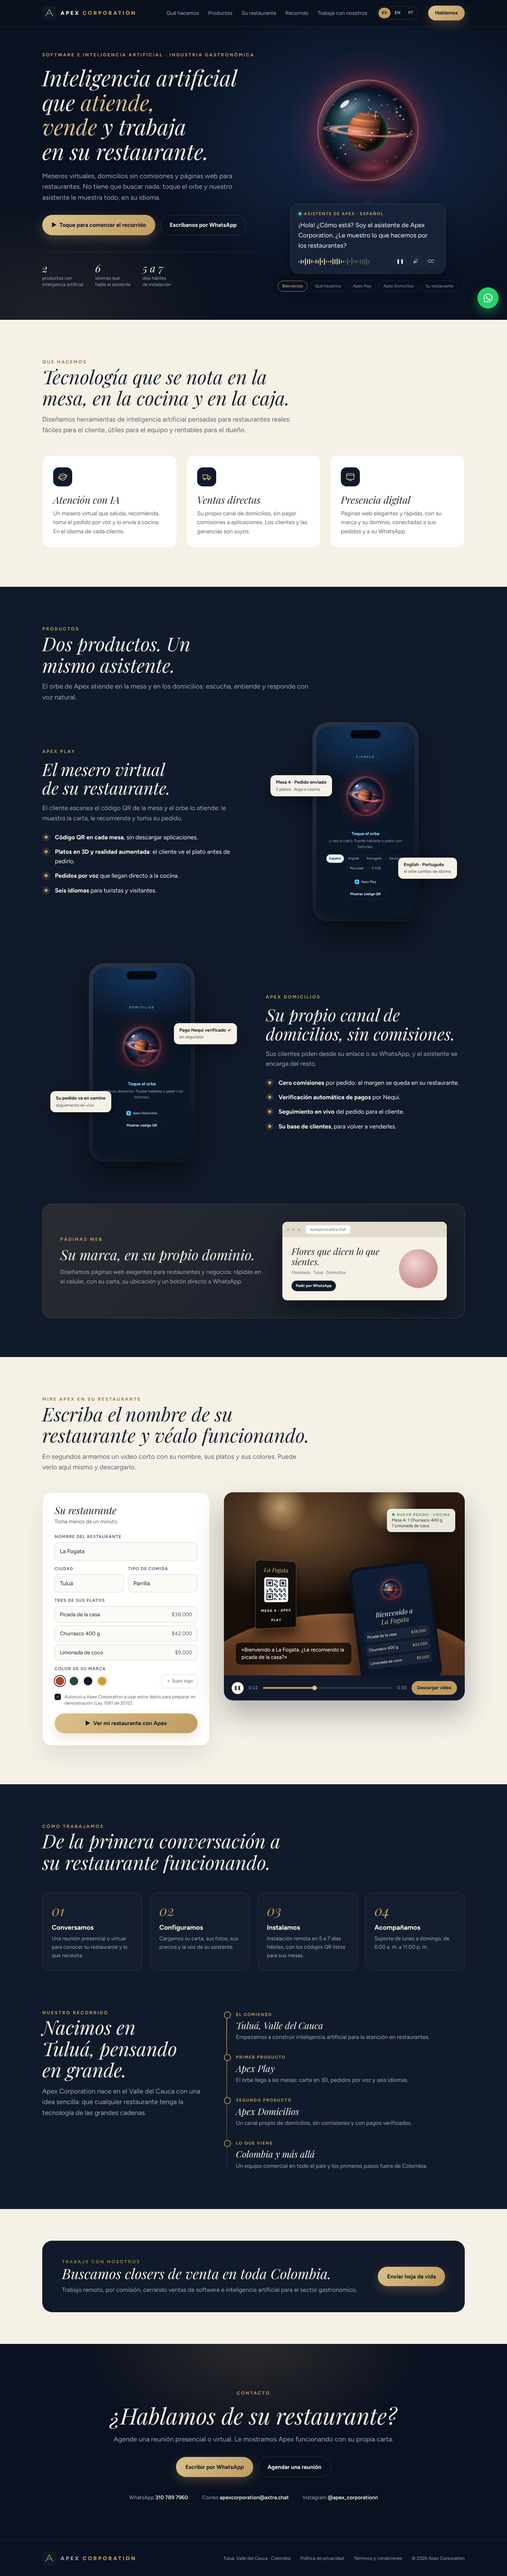
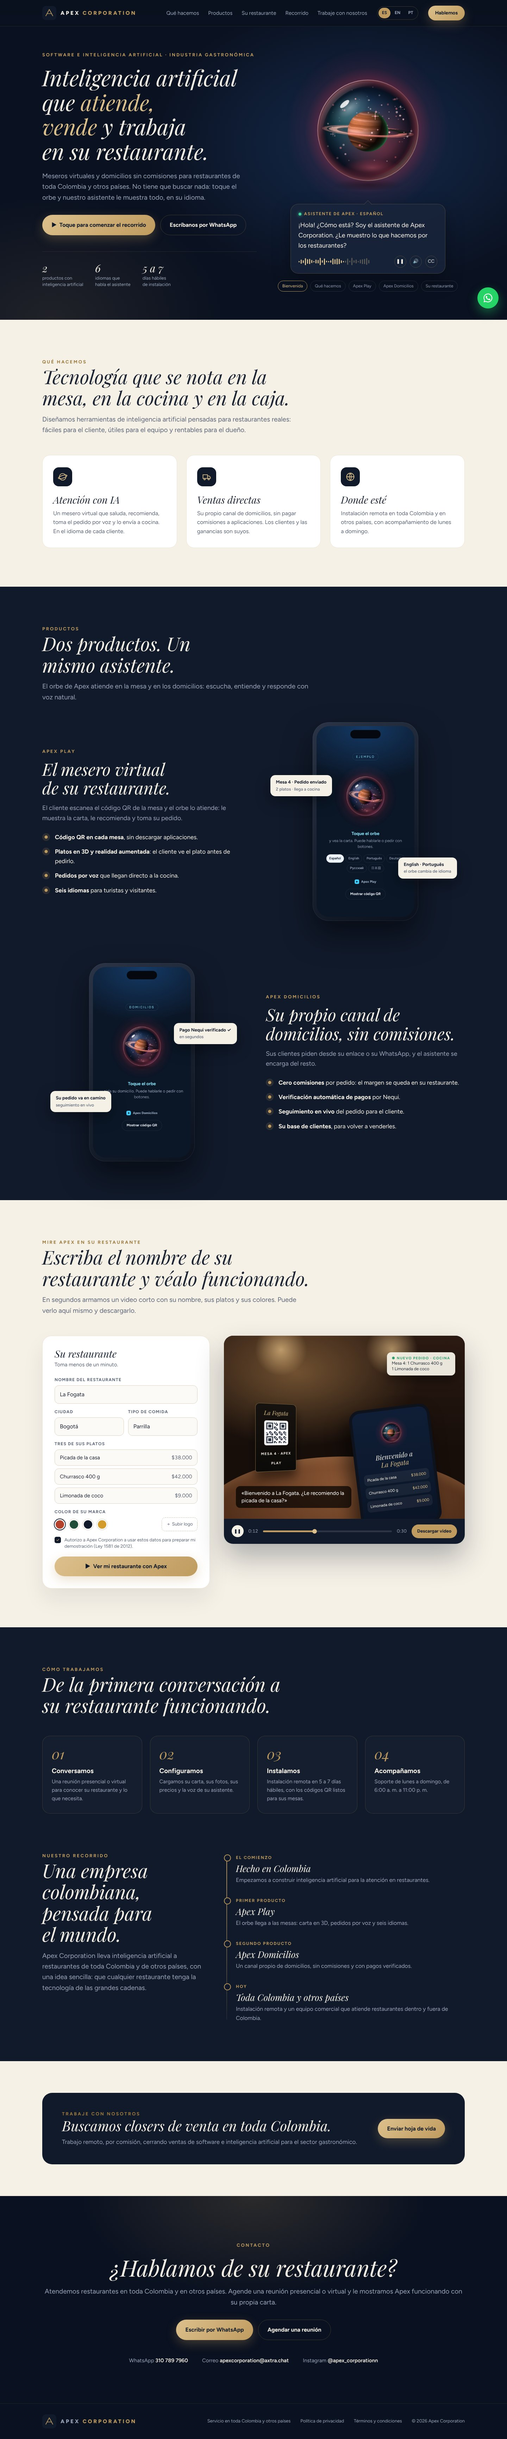
Boceto de Apex Corporation: solo Apex Play y Apex Domicilios, servicio en toda Colombia y otros países
Se quita el servicio de páginas web del sitio (se deja para más adelante) y las
menciones a Tuluá; ahora dice que el servicio llega a toda Colombia y a otros países.

Claude-Session: https://claude.ai/code/session_01Pcgrj9bEyTxcRDycAFVu2Q

Changed region(s): [[0.0, 0.0, 1.0, 0.9668]]

diff --git a/produccion/sitio/index.html b/produccion/sitio/index.html
@@ -4,7 +4,7 @@
 <meta charset="utf-8">
 <meta name="viewport" content="width=device-width, initial-scale=1, viewport-fit=cover">
 <title>Apex Corporation</title>
-<meta name="description" content="Software e inteligencia artificial para la industria gastronómica: Apex Play, Apex Domicilios y páginas web para restaurantes.">
+<meta name="description" content="Software e inteligencia artificial para restaurantes de toda Colombia y otros países: Apex Play, el mesero virtual, y Apex Domicilios, su canal propio sin comisiones.">
 <link rel="preconnect" href="https://fonts.googleapis.com"><link rel="preconnect" href="https://fonts.gstatic.com" crossorigin>
 <link href="https://fonts.googleapis.com/css2?family=Figtree:wght@400;500;600;700;800&family=Playfair+Display:ital@1&display=swap" rel="stylesheet">
 <!--FUENTES-->
@@ -100,18 +100,6 @@ header .boton { padding: 10px 20px; font-size: 14px; }
 .telefono::after { content: ""; position: absolute; top: 22px; left: 50%; width: 86px; height: 24px; border-radius: 14px; background: #05080f; transform: translateX(-50%); }
 .etiqueta { position: absolute; padding: 10px 16px; border-radius: 14px; background: var(--crema); color: var(--tinta); font-size: 13px; font-weight: 700; box-shadow: 0 16px 40px rgba(0,0,0,.35); white-space: nowrap; }
 .etiqueta small { display: block; font-weight: 500; color: var(--suave); font-size: 12px; }
-.webs { margin-top: 120px; display: grid; grid-template-columns: 1.1fr .9fr; gap: 60px; align-items: center; padding: 50px; border-radius: 28px; background: linear-gradient(135deg, rgba(191,155,95,.14), rgba(191,155,95,.03)); border: 1px solid var(--linea); }
-.webs h3 { font-size: 40px; margin: 10px 0 14px; }
-.webs p { color: var(--suave-osc); }
-.navegador { border-radius: 14px; overflow: hidden; background: var(--crema); box-shadow: 0 30px 60px rgba(0,0,0,.4); }
-.navegador .bar { display: flex; gap: 6px; align-items: center; padding: 10px 12px; background: #e3dccd; }
-.navegador .bar i { width: 9px; height: 9px; border-radius: 50%; background: #c8bfae; }
-.navegador .bar span { margin-left: 10px; padding: 3px 12px; background: #fff; border-radius: 6px; font-size: 11px; color: var(--suave); }
-.navegador .cuerpo { padding: 26px; color: var(--tinta); display: grid; grid-template-columns: 1fr 110px; gap: 16px; align-items: center; }
-.navegador .cuerpo b { font-family: var(--titulo); font-style: italic; font-weight: 400; font-size: 26px; line-height: 1.1; display: block; }
-.navegador .cuerpo small { display: block; color: var(--suave); font-size: 12px; margin: 8px 0 12px; }
-.navegador .cuerpo em { display: inline-block; font-style: normal; font-size: 11px; font-weight: 700; padding: 6px 12px; border-radius: 999px; background: var(--azul); color: var(--crema); }
-.navegador .cuerpo div.foto { aspect-ratio: 1; border-radius: 50%; background: radial-gradient(circle at 40% 35%, #f3d5d5, #c98f8f 70%); }
 
 /* ---------- su restaurante ---------- */
 .simulador { display: grid; grid-template-columns: .82fr 1.18fr; gap: 40px; align-items: start; }
@@ -192,7 +180,7 @@ footer .marca { margin-right: auto; }
 @media (max-width: 900px) {
   nav, header .boton, .idiomas { display: none; }
   .hamburguesa { display: block; }
-  .portada .envoltura, .producto, .webs, .simulador, .recorrido, .unase { grid-template-columns: 1fr; }
+  .portada .envoltura, .producto, .simulador, .recorrido, .unase { grid-template-columns: 1fr; }
   .portada .envoltura { padding-block: 24px 60px; gap: 10px; min-height: 0; }
   .asistente { order: -1; }
   .asistente canvas { width: 300px; }
@@ -208,7 +196,7 @@ footer .marca { margin-right: auto; }
   .mano { right: 4%; width: 190px; }
   .subtitulo { max-width: 90%; bottom: 4%; }
   .seccion { padding-block: 80px; }
-  .webs, .unase { padding: 32px 24px; }
+  .unase { padding: 32px 24px; }
 }
 </style>
 </head>
@@ -230,7 +218,7 @@ footer .marca { margin-right: auto; }
     <div>
       <div class="ceja">Software e inteligencia artificial · Industria gastronómica</div>
       <h1>Inteligencia artificial que <em>atiende, vende</em> y trabaja en su restaurante.</h1>
-      <p class="lead">Meseros virtuales, domicilios sin comisiones y páginas web para restaurantes. No tiene que buscar nada: toque el orbe y nuestro asistente le muestra todo, en su idioma.</p>
+      <p class="lead">Meseros virtuales y domicilios sin comisiones para restaurantes de toda Colombia y otros países. No tiene que buscar nada: toque el orbe y nuestro asistente le muestra todo, en su idioma.</p>
       <div class="acciones">
         <a class="boton oro" href="#">▶&nbsp; Toque para comenzar el recorrido</a>
         <a class="boton borde" href="#contacto">Escríbanos por WhatsApp</a>
@@ -266,8 +254,8 @@ footer .marca { margin-right: auto; }
         <h3>Atención con IA</h3><p>Un mesero virtual que saluda, recomienda, toma el pedido por voz y lo envía a cocina. En el idioma de cada cliente.</p></div>
       <div class="pilar"><div class="ico"><svg width="28" height="28" viewBox="0 0 24 24" fill="none" stroke="#dcc08c" stroke-width="1.6"><path d="M3 7h11v9H3zM14 10h4l3 3v3h-7"/><circle cx="7" cy="17.5" r="1.8"/><circle cx="17" cy="17.5" r="1.8"/></svg></div>
         <h3>Ventas directas</h3><p>Su propio canal de domicilios, sin pagar comisiones a aplicaciones. Los clientes y las ganancias son suyos.</p></div>
-      <div class="pilar"><div class="ico"><svg width="28" height="28" viewBox="0 0 24 24" fill="none" stroke="#dcc08c" stroke-width="1.6"><rect x="3" y="4" width="18" height="14" rx="2"/><path d="M3 8h18M8 21h8"/></svg></div>
-        <h3>Presencia digital</h3><p>Páginas web elegantes y rápidas, con su marca y su dominio, conectadas a sus pedidos y a su WhatsApp.</p></div>
+      <div class="pilar"><div class="ico"><svg width="28" height="28" viewBox="0 0 24 24" fill="none" stroke="#dcc08c" stroke-width="1.6"><circle cx="12" cy="12" r="9"/><path d="M3 12h18M12 3c3 3.2 3 14.8 0 18M12 3c-3 3.2-3 14.8 0 18"/></svg></div>
+        <h3>Donde esté</h3><p>Instalación remota en toda Colombia y en otros países, con acompañamiento de lunes a domingo.</p></div>
     </div>
   </div>
 </section>
@@ -316,16 +304,6 @@ footer .marca { margin-right: auto; }
         <div class="etiqueta" style="left:-110px; bottom:140px">Su pedido va en camino<small>seguimiento en vivo</small></div>
       </div>
     </div>
-
-    <div class="webs">
-      <div>
-        <div class="ceja">Páginas web</div>
-        <h3>Su marca, en su propio dominio.</h3>
-        <p>Diseñamos páginas web elegantes para restaurantes y negocios: rápidas en el celular, con su carta, su ubicación y un botón directo a WhatsApp.</p>
-      </div>
-      <div class="navegador"><div class="bar"><i></i><i></i><i></i><span>sunegocio.axtra.chat</span></div>
-        <div class="cuerpo"><div><b>Flores que dicen lo que sientes.</b><small>Floristería · Tuluá · Domicilios</small><em>Pedir por WhatsApp</em></div><div class="foto"></div></div></div>
-    </div>
   </div>
 </section>
 
@@ -343,7 +321,7 @@ footer .marca { margin-right: auto; }
         <p>Toma menos de un minuto.</p>
         <div class="campo"><label>Nombre del restaurante</label><div class="caja">La Fogata</div></div>
         <div class="fila">
-          <div class="campo"><label>Ciudad</label><div class="caja">Tuluá</div></div>
+          <div class="campo"><label>Ciudad</label><div class="caja">Bogotá</div></div>
           <div class="campo"><label>Tipo de comida</label><div class="caja">Parrilla</div></div>
         </div>
         <div class="campo"><label>Tres de sus platos</label>
@@ -387,14 +365,14 @@ footer .marca { margin-right: auto; }
     <div class="recorrido">
       <div class="cabeza">
         <div class="ceja">Nuestro recorrido</div>
-        <h2>Nacimos en Tuluá, pensando en grande.</h2>
-        <p>Apex Corporation nace en el Valle del Cauca con una idea sencilla: que cualquier restaurante tenga la tecnología de las grandes cadenas.</p>
+        <h2>Una empresa colombiana, pensada para el mundo.</h2>
+        <p>Apex Corporation lleva inteligencia artificial a restaurantes de toda Colombia y de otros países, con una idea sencilla: que cualquier restaurante tenga la tecnología de las grandes cadenas.</p>
       </div>
       <div class="linea">
-        <div class="hito"><small>El comienzo</small><h3>Tuluá, Valle del Cauca</h3><p>Empezamos a construir inteligencia artificial para la atención en restaurantes.</p></div>
+        <div class="hito"><small>El comienzo</small><h3>Hecho en Colombia</h3><p>Empezamos a construir inteligencia artificial para la atención en restaurantes.</p></div>
         <div class="hito"><small>Primer producto</small><h3>Apex Play</h3><p>El orbe llega a las mesas: carta en 3D, pedidos por voz y seis idiomas.</p></div>
         <div class="hito"><small>Segundo producto</small><h3>Apex Domicilios</h3><p>Un canal propio de domicilios, sin comisiones y con pagos verificados.</p></div>
-        <div class="hito"><small>Lo que viene</small><h3>Colombia y más allá</h3><p>Un equipo comercial en todo el país y los primeros pasos fuera de Colombia.</p></div>
+        <div class="hito"><small>Hoy</small><h3>Toda Colombia y otros países</h3><p>Instalación remota y un equipo comercial que atiende restaurantes dentro y fuera de Colombia.</p></div>
       </div>
     </div>
   </div>
@@ -416,7 +394,7 @@ footer .marca { margin-right: auto; }
   <div class="envoltura">
     <div class="ceja">Contacto</div>
     <h2>¿Hablamos de su restaurante?</h2>
-    <p>Agende una reunión presencial o virtual. Le mostramos Apex funcionando con su propia carta.</p>
+    <p>Atendemos restaurantes en toda Colombia y en otros países. Agende una reunión presencial o virtual y le mostramos Apex funcionando con su propia carta.</p>
     <div class="acciones"><a class="boton oro" href="#">Escribir por WhatsApp</a><a class="boton borde" href="#">Agendar una reunión</a></div>
     <div class="contactos"><span>WhatsApp <b>310 789 7960</b></span><span>Correo <b>apexcorporation@axtra.chat</b></span><span>Instagram <b>@apex_corporationn</b></span></div>
   </div>
@@ -425,7 +403,7 @@ footer .marca { margin-right: auto; }
 <footer>
   <div class="envoltura">
     <div class="marca"><img src="img/logo.png" alt=""><b>APEX <span>CORPORATION</span></b></div>
-    <span>Tuluá, Valle del Cauca · Colombia</span><a href="#">Política de privacidad</a><a href="#">Términos y condiciones</a><span>© 2026 Apex Corporation</span>
+    <span>Servicio en toda Colombia y otros países</span><a href="#">Política de privacidad</a><a href="#">Términos y condiciones</a><span>© 2026 Apex Corporation</span>
   </div>
 </footer>
 
